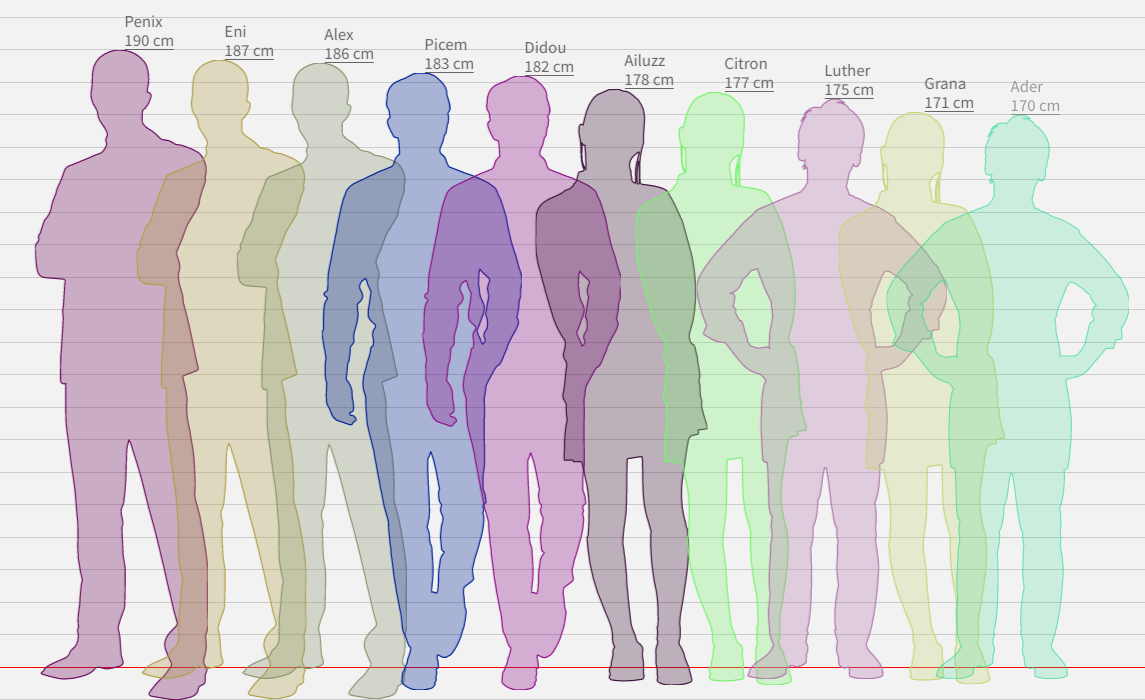
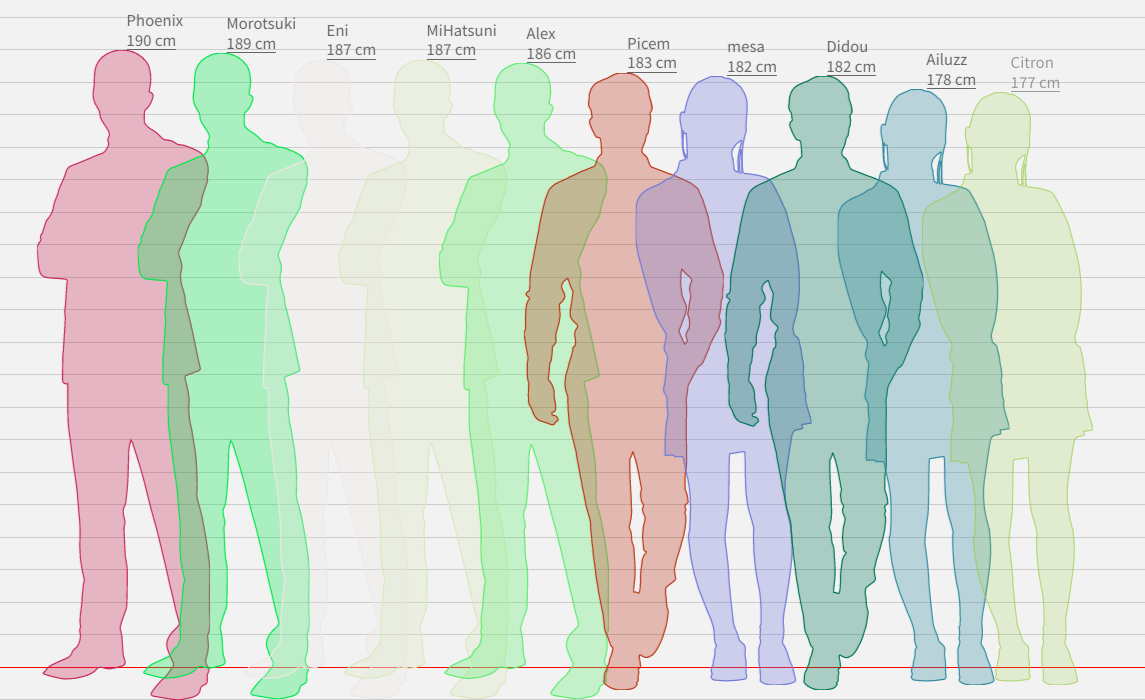
added auto crop

diff --git a/main.py b/main.py
@@ -1,5 +1,6 @@
 import time
 import json
+from collections import OrderedDict
 from PIL import Image
 from io import BytesIO
 from selenium import webdriver
@@ -17,6 +18,7 @@ def main():
     """Executes the different functions of the file"""
     # Initiates the webdriver
     options = Options()
+    options.add_argument("--kiosk")
     driver = webdriver.Chrome(options=options)
     # Go to the height comparator website
     driver.get('https://hikaku-sitatter.com/en/')
@@ -24,14 +26,17 @@ def main():
     with open('liste_taille.json', 'r') as f:
         names_dict = json.load(f)
     # Execute all the functions needed for each page of 10 people in the JSON
-    for i in range(len(names_dict)):
+    n = 0 # total amount of images
+    for i in range(int(len(names_dict)/10 + 1)):
         init_and_reset_graph(driver)
         add_10_names_from_json(driver, i)
         take_screenshot(driver, i)
+        n += 1
 
-    concatenate_images(driver)
-    time.sleep(1)
+    concatenate_images(n)
+    crop_white_spaces()
     driver.quit()
+
 
 def init_and_reset_graph(driver):
     """Adds someone whose height is 190cm to set the graph at a good scale. Then deletes all the default people
@@ -58,6 +63,7 @@ def init_and_reset_graph(driver):
     btn_del = driver.find_element_by_class_name('btn-del')
     driver.execute_script("arguments[0].click();", btn_del)
 
+
 def add_10_names_from_json(driver, page_number):
     """"Add 10 people to the website with correct name/height/gender, which is the limit."""
     # Find needed elements
@@ -65,24 +71,31 @@ def add_10_names_from_json(driver, page_number):
     height_textbox = driver.find_element_by_id('height')
     male_female_buttons = driver.find_elements_by_class_name('addInput-gender__label')
     send_button = driver.find_element_by_class_name('addInput__btn')
+
     # Loads JSON with names/height/gender, then add them into input fields and adds them one after another
     with open('liste_taille.json', 'r') as f:
-        names_dict = json.load(f)
-        # Add all the data into text fields then submits, for each person
-        for name, list_data in names_dict[f'{page_number}'].items():
-            name_textbox.send_keys(name)
-            height_textbox.send_keys(list_data[0])
-            if list_data[1] == 'm':
-                male_female_buttons[0].click()
-            else:
-                male_female_buttons[1].click()
-            send_button.click()
-            time.sleep(0.1)
+        names_dict = json.load(f, object_pairs_hook=OrderedDict)
+
+    # Add all the data into text fields then submits, for each person
+    for index, (name, list_data) in enumerate(names_dict.items()):
+        if index < 10 * page_number or index >= 10 * (page_number+1) :
+            continue
+
+        name_textbox.send_keys(name)
+        height_textbox.send_keys(list_data[0])
+
+        if list_data[1] == 'm':
+            male_female_buttons[0].click()
+        else:
+            male_female_buttons[1].click()
+        send_button.click()
+        time.sleep(0.1)
 
 # left 675
 # top 1264
 # right 1768
 # bottom 117
+
 
 def take_screenshot(driver, page_number):
     """Takes a screenshot of the frame and saves it"""
@@ -107,8 +120,9 @@ def take_screenshot(driver, page_number):
     im = im.crop((left, top, right, bottom))
     im.save(f'screenshot_{page_number}.png')
 
-def concatenate_images(driver):
-    images = [Image.open(x) for x in ['screenshot_0.png', 'screenshot_1.png']]
+
+def concatenate_images(n):
+    images = [Image.open(x) for x in [f"screenshot_{i}.png" for i in range(n)]]
     widths, heights = zip(*(i.size for i in images))
     total_width = sum(widths)
     max_height = max(heights)
@@ -118,8 +132,41 @@ def concatenate_images(driver):
         new_im.paste(im, (x_offset,0))
         x_offset += im.size[0]
 
-    new_im.save('final_image.png')
+    new_im.save('final.png')
+
+
+def _find_blank_cols(pixels, width, height):
+    blank_line = [pixels[0, y] for y in range(height)]
+    cols_found = []
+    for x in range(width):
+        col_x = [pixels[x, y] for y in range(height)]
+        if col_x == blank_line:
+            cols_found.append(x)
+    return cols_found
+
+
+def crop_white_spaces():
+    im = Image.open("final.png")
+    if im.mode != 'RGB':
+        im = im.convert('RGB')
+    pixels = im.load()
+    width, height = im.size[0], im.size[1]
+
+    cols_to_remove = _find_blank_cols(pixels, width, height)
+    new_im = Image.new('RGB', (width - len(cols_to_remove), height))
+    new_pixels = new_im.load()
+    
+    cols_removed = 0
+    for x in range(im.size[0]):
+        if x not in cols_to_remove:
+            for y in range(new_im.size[1]):
+                new_pixels[x - cols_removed, y] = pixels[x, y]
+        else:
+            cols_removed += 1
+    
+    new_im.save("final.png")
 
 
 if __name__ == '__main__':
+    # main()
     main()
